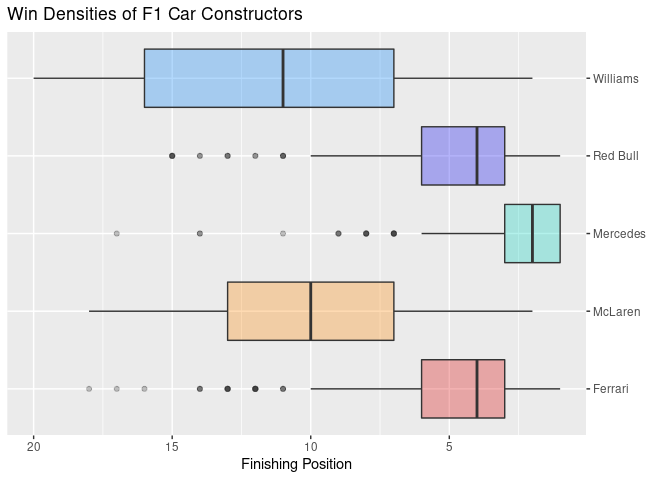
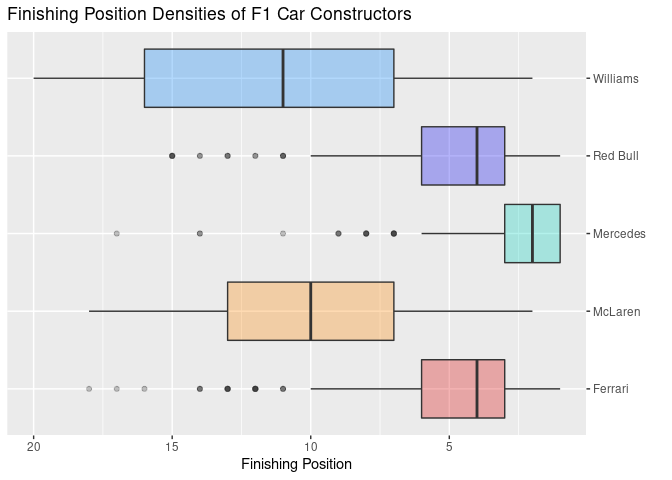
Removing commented code

Changed region(s): [[0.0, 0.0, 0.625, 0.0625]]

diff --git a/extra/Eila.md b/extra/Eila.md
@@ -141,12 +141,11 @@ f1merged_hybrid %>%
   filter(constructorname %in% key_teams) %>%
   ggplot(aes(x = position, y = constructorname,
              fill = constructorname)) +
-  #geom_violin(alpha = 0.2) +
   geom_boxplot(alpha = 0.3) +
   scale_fill_manual(values = key_team_colours) +
   scale_x_reverse() +
   scale_y_discrete(position = "right") +
-  labs(title = "Win Densities of F1 Car Constructors",
+  labs(title = "Finishing Position Densities of F1 Car Constructors",
        x = "Finishing Position",
        y = "") +
   theme(legend.position = "none")
